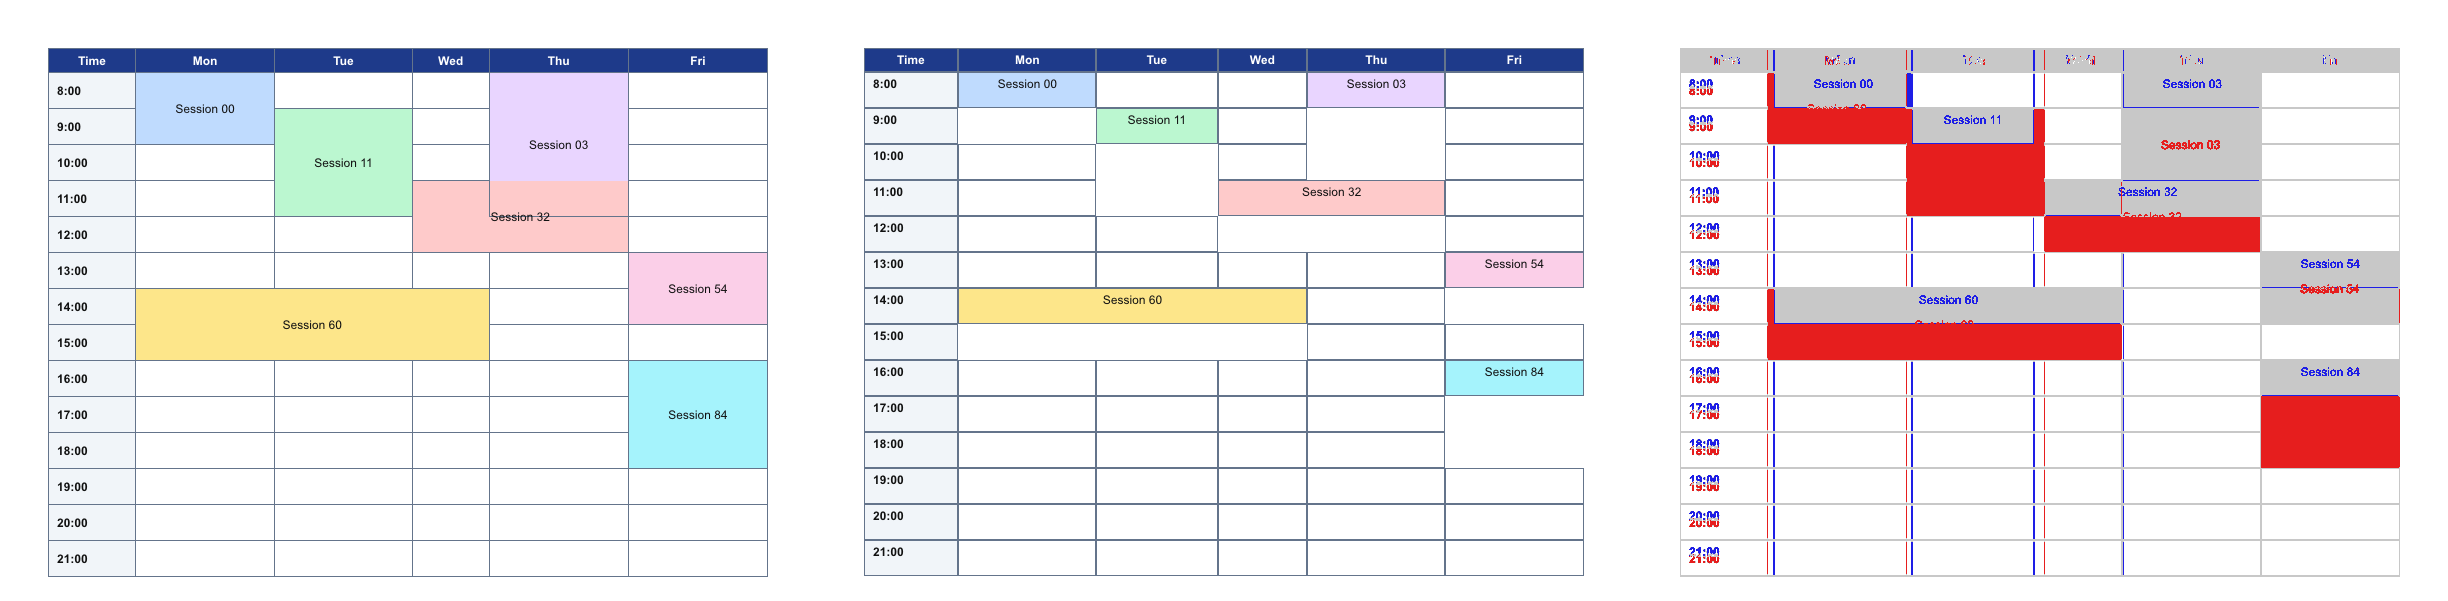
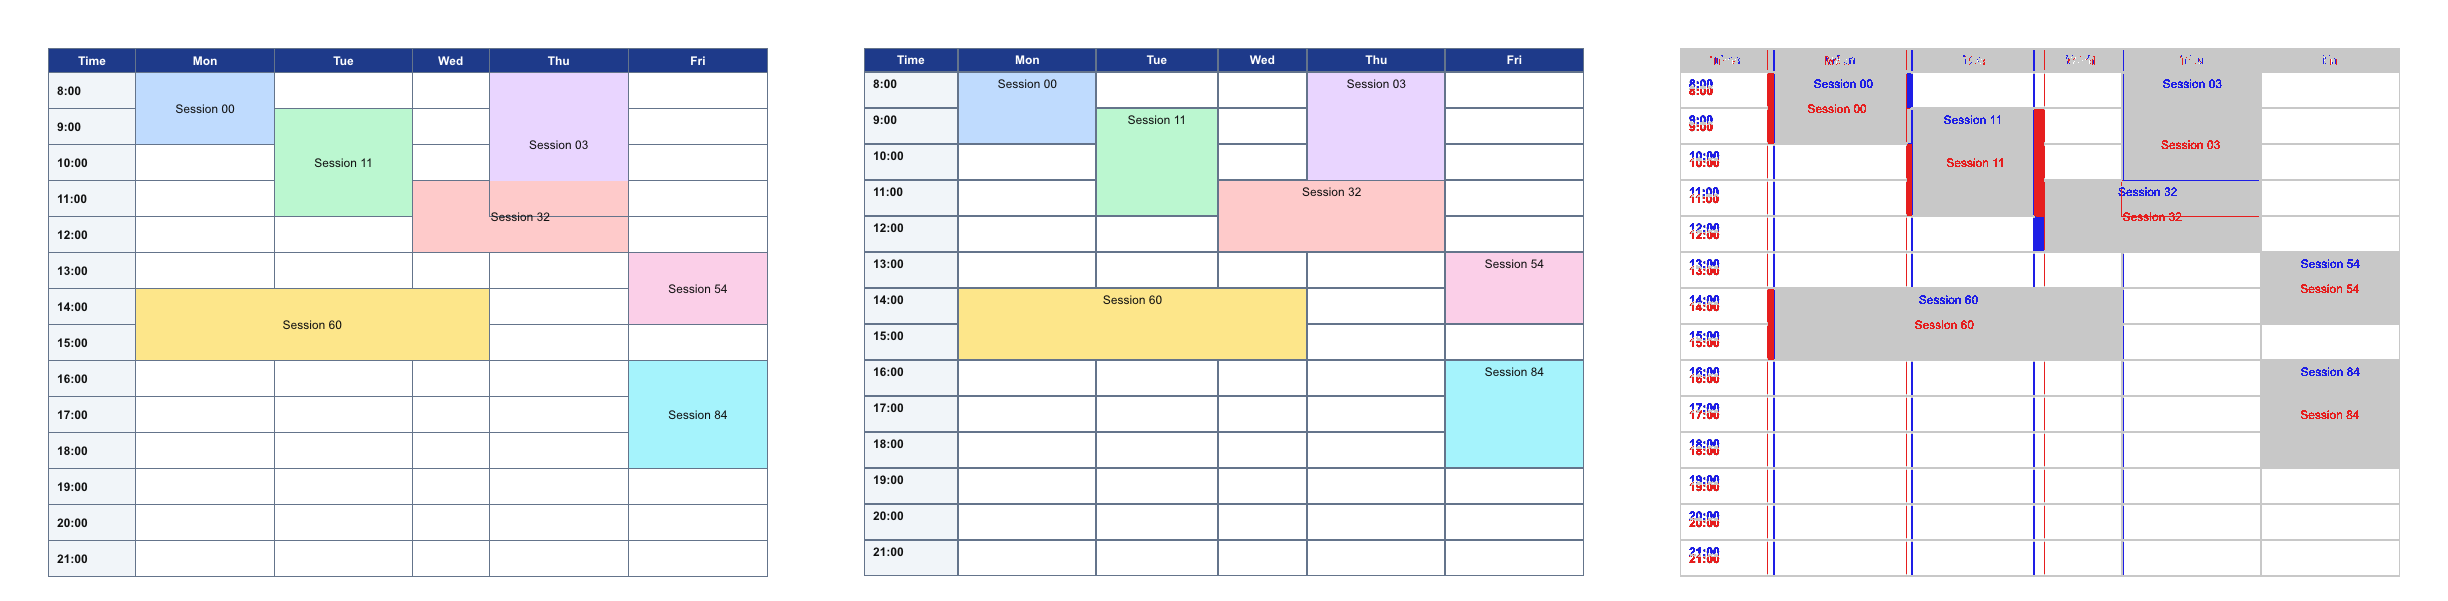
fix: table row spans, border-spacing and cell heights; complex-table parity category (score 94.5)
- taffy: spanning items now get the space beyond their tracks' growth limits (a rowspan cell's height grew only the first group)
- blitz-dom: border-spacing is the gap between cells and around the table; a height on a row or cell is a minimum for its row
- 16 complex-table parity pages (spans, colours, borders, outlines, rounded cells, nested tables, heatmaps, long tables)
- changelog, parity docs and patch logs updated

diff --git a/vendor/blitz-dom/src/layout/table.rs b/vendor/blitz-dom/src/layout/table.rs
@@ -68,6 +68,28 @@ pub(crate) fn build_table_context(
     style.grid_auto_columns = Vec::new();
     style.grid_auto_rows = Vec::new();
 
+    // pdf-engine patch: `border-spacing` in the separate-borders model (the default; the user-agent sheet sets 2px) is the
+    // gap between cells and also the space between the cells and the table's edge. It was parsed and never used.
+    if stylo_styles.clone_border_collapse()
+        == ::style::computed_values::border_collapse::T::Separate
+    {
+        let spacing = stylo_styles.clone_border_spacing();
+        let (sw, sh) = (spacing.0.width.0.px(), spacing.0.height.0.px());
+        style.gap = taffy::Size {
+            width: style_helpers::length(sw),
+            height: style_helpers::length(sh),
+        };
+        let pad = style
+            .padding
+            .resolve_or_zero(taffy::Size::NONE, |_, _| 0.0);
+        style.padding = taffy::Rect {
+            left: style_helpers::length(pad.left + sw),
+            right: style_helpers::length(pad.right + sw),
+            top: style_helpers::length(pad.top + sh),
+            bottom: style_helpers::length(pad.bottom + sh),
+        };
+    }
+
     let is_fixed = match stylo_styles.clone_table_layout() {
         TableLayout::Fixed => true,
         TableLayout::Auto => false,
@@ -432,10 +454,20 @@ impl taffy::CoreStyle for TableItemStyle<'_> {
         if self.width_auto {
             size.width = style_helpers::auto();
         }
+        // pdf-engine patch: `height` on a table row or cell is a minimum (CSS Tables 3 §3) for the row it sits in:
+        // the grid sees it as a minimum height, so a spanning cell's `height` is spread over the rows it spans.
+        if size.height.tag() == taffy::CompactLength::LENGTH_TAG {
+            size.height = style_helpers::auto();
+        }
         size
     }
     fn min_size(&self) -> taffy::Size<Dimension> {
-        taffy::CoreStyle::min_size(self.base)
+        let mut min = taffy::CoreStyle::min_size(self.base);
+        let height = taffy::CoreStyle::size(self.base).height;
+        if height.tag() == taffy::CompactLength::LENGTH_TAG && min.height.tag() == taffy::CompactLength::AUTO_TAG {
+            min.height = height;
+        }
+        min
     }
     fn max_size(&self) -> taffy::Size<Dimension> {
         taffy::CoreStyle::max_size(self.base)

diff --git a/vendor/taffy/src/compute/grid/track_sizing.rs b/vendor/taffy/src/compute/grid/track_sizing.rs
@@ -1045,13 +1045,16 @@ fn distribute_item_space_to_base_size(
                 filter = (|_| true) as fn(&GridTrack) -> bool;
             }
 
+            // pdf-engine patch: "beyond limits" means beyond the growth limits (CSS Grid 11.5.1 step 3). The limit check
+            // was kept, so a spanning item (a `rowspan` cell with a `height`) that needed more room than its tracks'
+            // limits allowed got none of it: only the first such cell in a table grew its rows.
             distribute_space_up_to_limits(
                 extra_space,
                 tracks,
                 filter,
                 &track_distribution_proportion,
                 get_base_size,
-                &track_limit, // Should apply only fit-content limit here?
+                |_| f32::INFINITY,
             );
         }
 

diff --git a/.public/docs/parity.md b/.public/docs/parity.md
@@ -44,12 +44,13 @@ No tuning per case, no alignment of the two pages before comparing, and the thre
 
 ## Where it stands (28 October 2026, pdf-engine 1.4.1 plus the patches below, Chrome 156)
 
-Score **93.81, HEALTHY**: 157 pass, 20 close, 11 fail, of 188 cases. The first run, on 88 cases, scored 80.3.
+Score **94.48, DEGRADED**: 160 pass, 19 close, 9 fail, of 188 cases. The first run, on 88 cases, scored 80.3.
 
 What moved it (every engine change is in the `PATCHES.md` of `vendor/fulgur`, `vendor/parley` and `vendor/blitz-dom`):
 
 - **Both sides use standards mode.** Several fixtures have no `<!doctype>`, which Chrome renders in quirks mode. The driver adds a
   doctype to both renderers: a change to the comparison, not to the engine. pdf-engine has no quirks mode.
+- **Tables:** a `rowspan` cell's `height` is spread over the rows it spans, and `border-spacing` is applied.
 - **Right to left:** `dir` and `direction: rtl` set a paragraph's direction; a flex row flips in an rtl box.
 - **Inline boxes:** an `inline-block` with text sits on its text baseline and its margin is honoured.
 - **Images:** `<img>` of an SVG (a file or a data URI) and CSS `url()` backgrounds are drawn.
@@ -65,9 +66,9 @@ What moved it (every engine change is in the `PATCHES.md` of `vendor/fulgur`, `v
 | Category | Score | Pass |
 | --- | ---: | ---: |
 | columns | 34.4 | 0 of 1 |
-| complex tables | 79.0 | 6 of 16 |
 | backgrounds | 85.7 | 6 of 7 |
-| whole documents | 90.1 | 11 of 20 |
+| complex tables | 86.0 | 8 of 16 |
+| whole documents | 90.8 | 12 of 20 |
 | positioning | 91.8 | 2 of 3 |
 | box model and selectors | 91.9 | 7 of 8 |
 | borders | 92.9 | 14 of 16 |
@@ -86,10 +87,10 @@ What moved it (every engine change is in the `PATCHES.md` of `vendor/fulgur`, `v
 | transforms | 100.0 | 2 of 2 |
 | pagination: page count | 100.0 | 12 of 12 |
 
-Three categories are under 90, for these reasons:
+Categories under 90, for these reasons:
 
-- **complex tables** (16 cases, the newest group): merged headers, long tables, wide tables and invoices match Chrome (87 to 99), but
-  `border-collapse: separate` with rounded cells, nested tables, `outline` and vertical alignment inside `rowspan` cells do not yet.
+- **complex tables** (16 cases, the newest group): spans, merged headers, invoices, timetables, rounded cells and wide tables now match Chrome
+  (91 to 100); nested tables, `outline`, thick collapsed borders and some border styles do not yet.
 
 - **columns** (one case): `column-rule` on a box that must split across the columns when its only child is one empty tall block.
 - **backgrounds** (one case in seven): an inline `<span>` with only a space and some padding paints no background.

diff --git a/CHANGELOG.md b/CHANGELOG.md
@@ -9,8 +9,7 @@ image `zalven88/pdf-engine:X.Y.Z` (also `X.Y`, `X` and `latest`).
 Pagination, right-to-left text and a Chrome parity score. Every page of a growing corpus (now 188 pages: whole documents,
 one-feature probes, right-to-left pages, 84 pagination pages and 16 complex tables) is made by headless Chrome and by pdf-engine,
 both drawn by the same rasteriser, and scored. The score is on the [demo page](https://lands-horizon-corp.github.io/pdf-engine/)
-and described in [Parity with Chrome](.public/docs/parity.md). The first run scored 80.3; it is now 93.81 over all 188 pages (about 95 without the complex tables, the newest and
-hardest group: see Known gaps).
+and described in [Parity with Chrome](.public/docs/parity.md). The first run scored 80.3; it is now 94.48 over all 188 pages (complex tables, the newest and hardest group, score 86: see Known gaps).
 
 ### Added
 
@@ -33,13 +32,16 @@ hardest group: see Known gaps).
   or the order of runs), and a flex row flips in a right-to-left box.
 - **An `inline-block` with text sits on its text baseline** (it was about 70 px too low) and its `margin` is honoured.
 - **SVG images are drawn:** `<img>` of an SVG (a file or a data URI) and CSS `url()` backgrounds, which were not collected at all.
+- **Tables:** a `rowspan` cell's `height` is spread over the rows it spans (only the first such cell in a table grew its rows,
+  so every later group of rows came out too short); `border-spacing` is applied (cells touched, and tables were smaller than
+  in a browser); a `height` on a row or cell is a minimum for its row.
 - **`@page { size }` is honoured** when the request leaves the page size at its default (Letter).
 - **Margin boxes** (`@top-center`, `@bottom-right`, ...) are aligned left, centre or right and centred vertically in the margin.
 
 ### Known gaps (found by the parity pages, not fixed here)
 
-- Complex tables: `border-collapse: separate` with rounded cells, nested tables, `outline`, and vertical alignment inside `rowspan`
-  cells differ from Chrome.
+- Complex tables: nested tables (a row does not grow to fit the table inside it), `outline`, the row height of
+  `border-collapse: collapse` with thick borders, and double/groove/ridge border styles differ from Chrome.
 - Right-to-left: `<bdo>` and `unicode-bidi: isolate`, grid, table and list mirroring in an rtl box, `float: inline-start`,
   `padding-inline-*`, and `text-indent` at the start side.
 - `outline` is not drawn; `::before`/`::after` with `display: block` lay out side by side; an inline `<span>` with only a space

diff --git a/vendor/blitz-dom/PATCHES.md b/vendor/blitz-dom/PATCHES.md
@@ -17,3 +17,5 @@ Copy of [blitz-dom](https://github.com/DioxusLabs/blitz) 0.2.4 (MIT OR Apache-2.
 | 10 | `assets/default.css` | `[dir=rtl]` and `[dir=ltr]` set `direction`; `dir="auto"` leaves the paragraph direction to the first strong letter (`construct.rs`) | The UA stylesheet used Gecko-only `:-moz-dir-attr-*` selectors, which never matched |
 | 11 | `src/layout/damage.rs` | In a `direction: rtl` box a flex row is flipped (`row` becomes `row-reverse` and back) | taffy has no `direction`; flex items in an rtl container started at the left |
 | 12 | `src/layout/inline.rs`, `construct.rs` | The first text baseline of an inline box is passed to parley (`InlineBox::baseline`) | See parley patch 2 |
+| 13 | `src/layout/table.rs` | `border-spacing` (separate-borders model) becomes the grid gap between cells and extra padding around the table | `border-spacing` was parsed and never used, so cells touched and tables were smaller than in a browser |
+| 14 | `src/layout/table.rs` | A `height` on a table row or cell is a minimum height for the row's track (a spanning cell's `height` is spread over its rows) | The row did not grow to fit its content (a nested table, wrapped text), which overflowed into the next row |

diff --git a/vendor/taffy/PATCHES.md b/vendor/taffy/PATCHES.md
@@ -7,6 +7,7 @@ Copy of [taffy](https://github.com/DioxusLabs/taffy) 0.9.2 (MIT) with the patch 
 | --- | --- | --- | --- |
 | 1 | `src/compute/block.rs` | Table children of a block get their explicit width resolved against the container's content box | A `<table style="width:100%">` directly inside an element with horizontal padding (very common: `body { padding: 30px }`) resolved `100%` against the padded outer width and overflowed the right edge by the padding |
 | 2 | `src/tree/cache.rs` | The nine measurement entries of a node's `Cache` are allocated when the first one is stored | Most nodes are never measured and the array was 360 bytes of each node (a quarter of it) |
+| 3 | `src/compute/grid/track_sizing.rs` | The "distribute remaining space beyond limits" step of spanning items ignores the growth limits | A `rowspan` cell with a `height` taller than its rows made only the first such cell in a table grow its rows; every later one was ignored |
 
 ## Upgrading taffy
 
